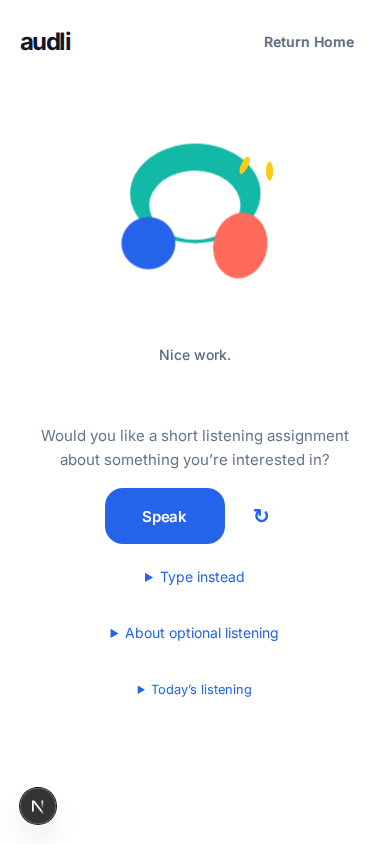
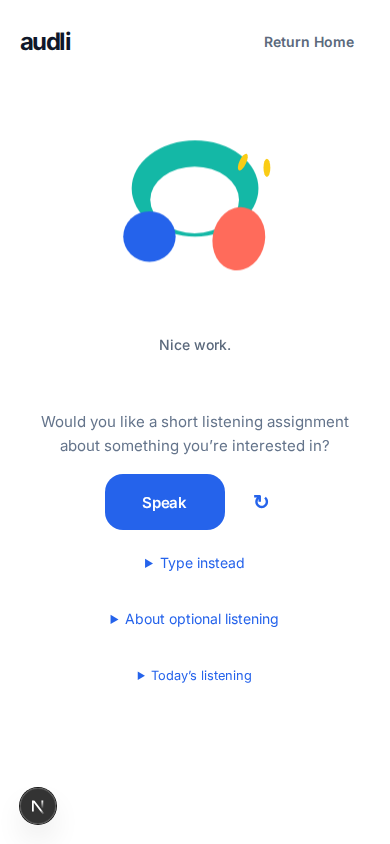
test(AUD-62): capture settled classroom presentation states

diff --git a/web/tests/classroom-polish.spec.ts b/web/tests/classroom-polish.spec.ts
@@ -1,6 +1,11 @@
-import { test, expect } from '@playwright/test';
+import { test, expect, type Page } from '@playwright/test';
 import { setup, typeReply } from './homework-fixture';
 import { probe, promptWav } from './voice-fixture';
+
+async function settledMascot(page: Page) {
+  await expect.poll(() => page.locator('.mascot-cue').evaluateAll(nodes => nodes.length > 0 && nodes.every(node =>
+    Number(getComputedStyle(node).opacity) === (node.getAttribute('data-visible') === 'true' ? 1 : 0)))).toBe(true);
+}
 
 for (const width of [320,390,1440]) test(`adaptive classroom modes preserve audio at ${width}px`,async({page})=>{
   await page.setViewportSize({width,height:844});
@@ -10,6 +15,7 @@ for (const width of [320,390,1440]) test(`adaptive classroom modes preserve audi
   await expect(shell).toHaveAttribute('data-layout','interaction');
   await expect(page.getByText('Type instead',{exact:true})).toBeVisible();
   await expect(page.getByLabel('Your reply',{exact:true})).toBeHidden();
+  await settledMascot(page);
   await page.screenshot({path:`../docs/screenshots/AUD-62-interaction-${width}.png`,fullPage:true});
   await page.evaluate(()=>{(window as unknown as {classroomAudio:Element|null}).classroomAudio=document.querySelector('audio');});
   let release!:()=>void;const held=new Promise<void>(resolve=>{release=resolve;});let attempts=0;
@@ -19,6 +25,7 @@ for (const width of [320,390,1440]) test(`adaptive classroom modes preserve audi
   await expect(shell).toHaveAttribute('data-layout','focus');
   await expect(page.getByText('Type instead',{exact:true})).toBeVisible();
   await expect(page.locator('.homework-invitation')).toHaveCount(0);
+  await settledMascot(page);
   await page.screenshot({path:`../docs/screenshots/AUD-62-focus-${width}.png`,fullPage:true});
   release();
   await expect(shell).toHaveAttribute('data-layout','content');
@@ -26,6 +33,7 @@ for (const width of [320,390,1440]) test(`adaptive classroom modes preserve audi
   const link=page.getByRole('link',{name:'Watch on YouTube (opens a new tab)'});
   await expect(link).toBeVisible();await link.focus();await expect(link).toBeFocused();
   expect((await link.boundingBox())!.height).toBeGreaterThanOrEqual(44);
+  await settledMascot(page);
   await page.screenshot({path:`../docs/screenshots/AUD-62-content-${width}.png`,fullPage:true});
   expect(await page.evaluate(()=>document.querySelector('audio')===(window as unknown as {classroomAudio:Element}).classroomAudio)).toBe(true);
   expect(await page.evaluate(()=>document.documentElement.scrollWidth<=innerWidth)).toBe(true);
